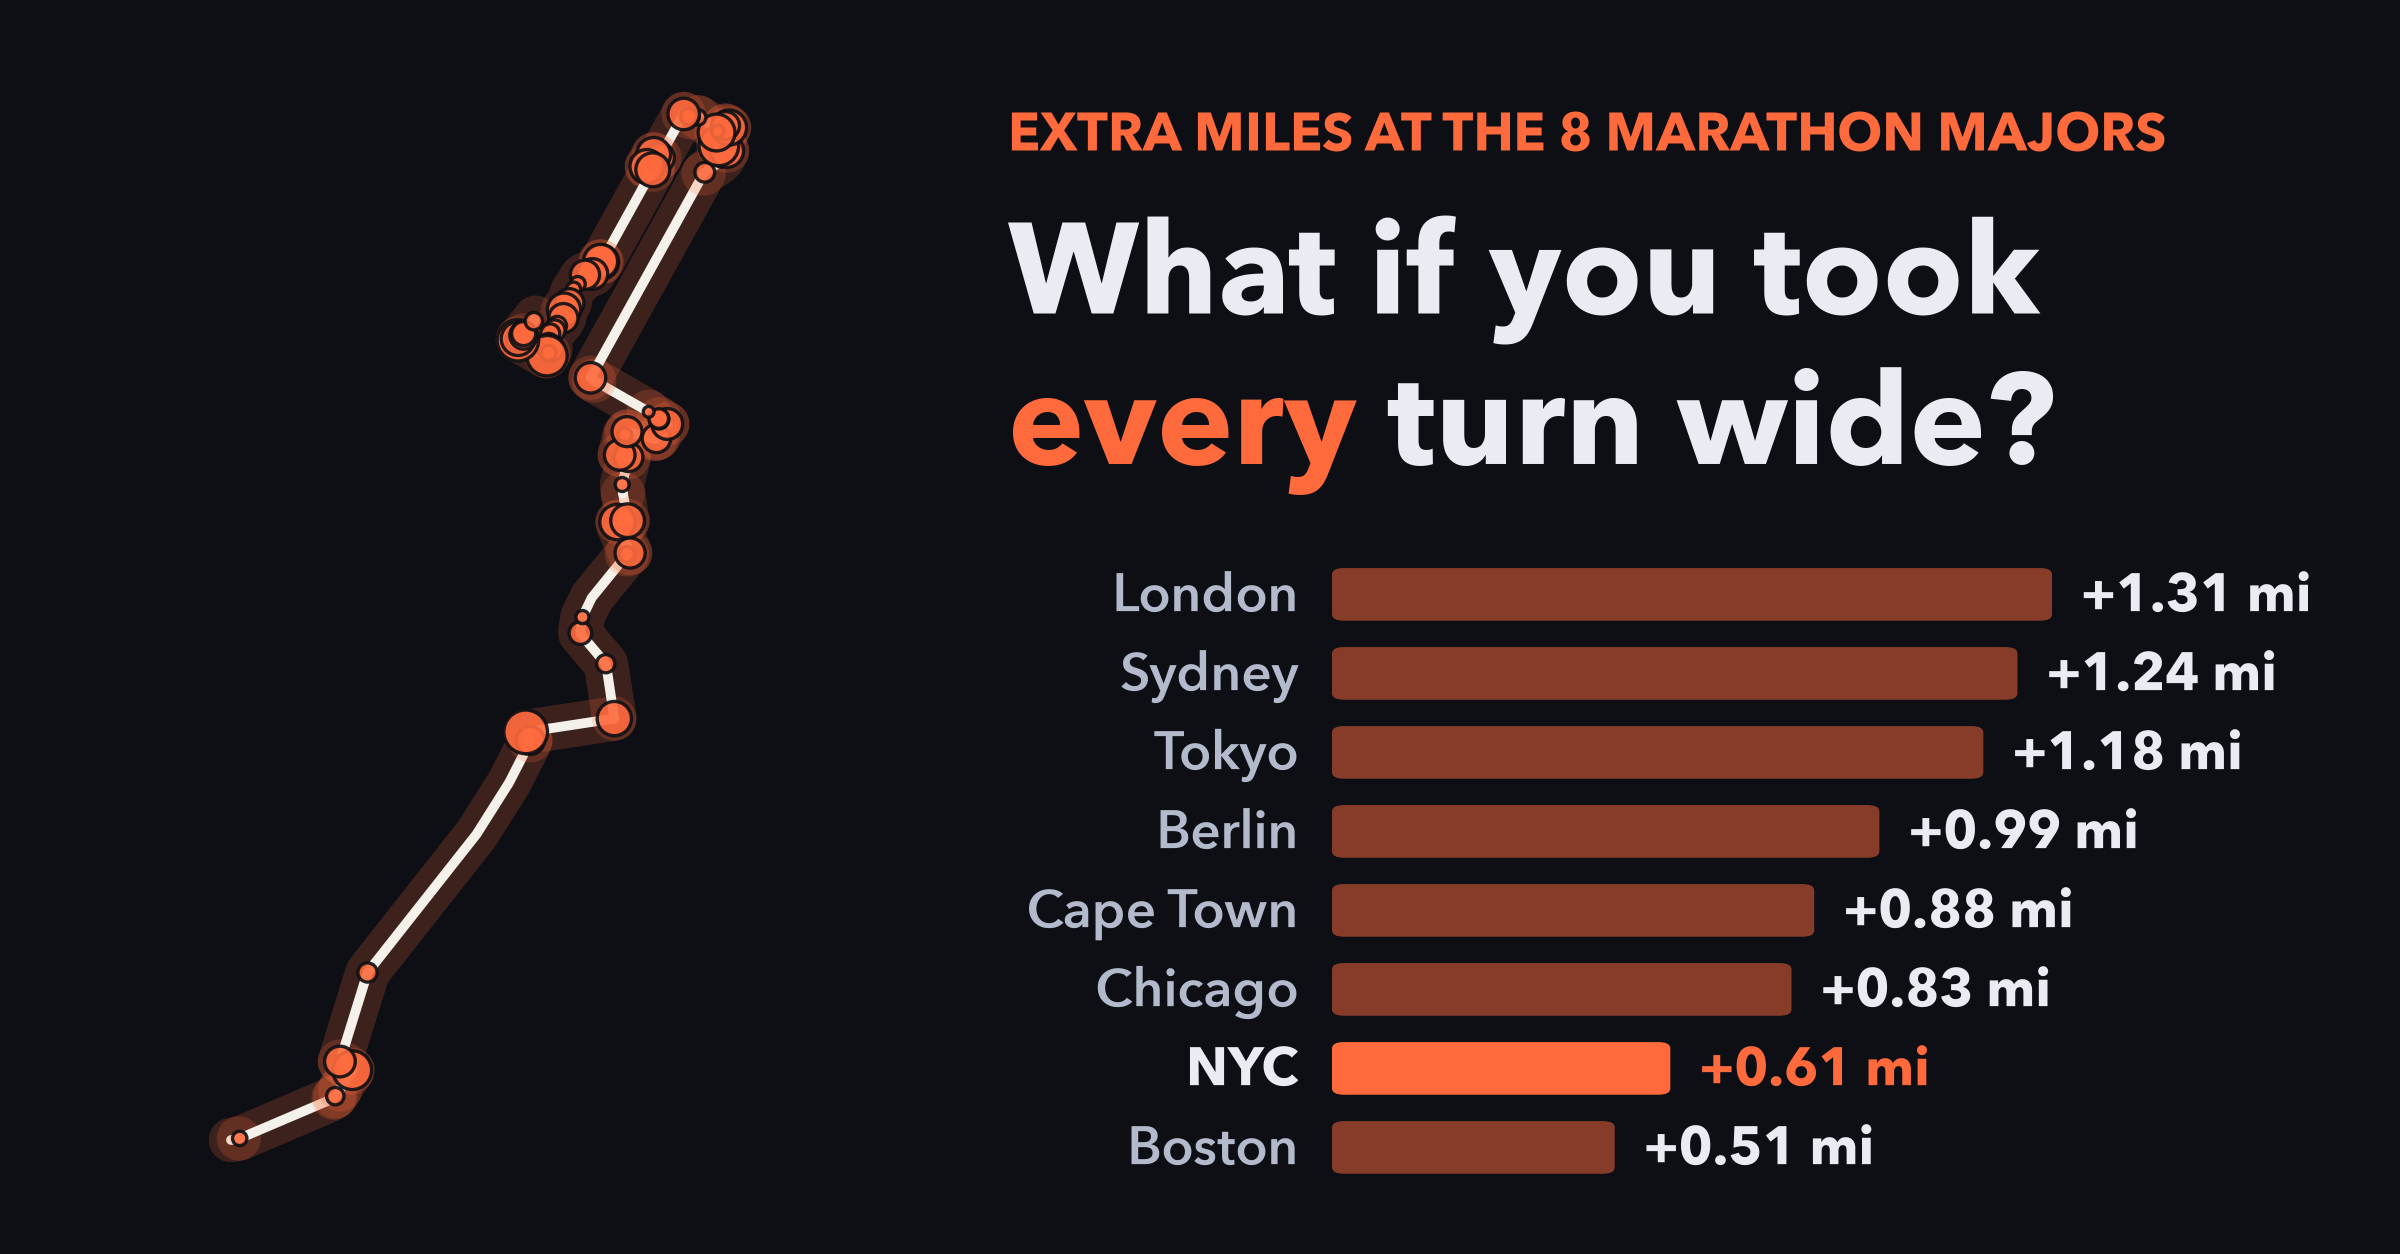
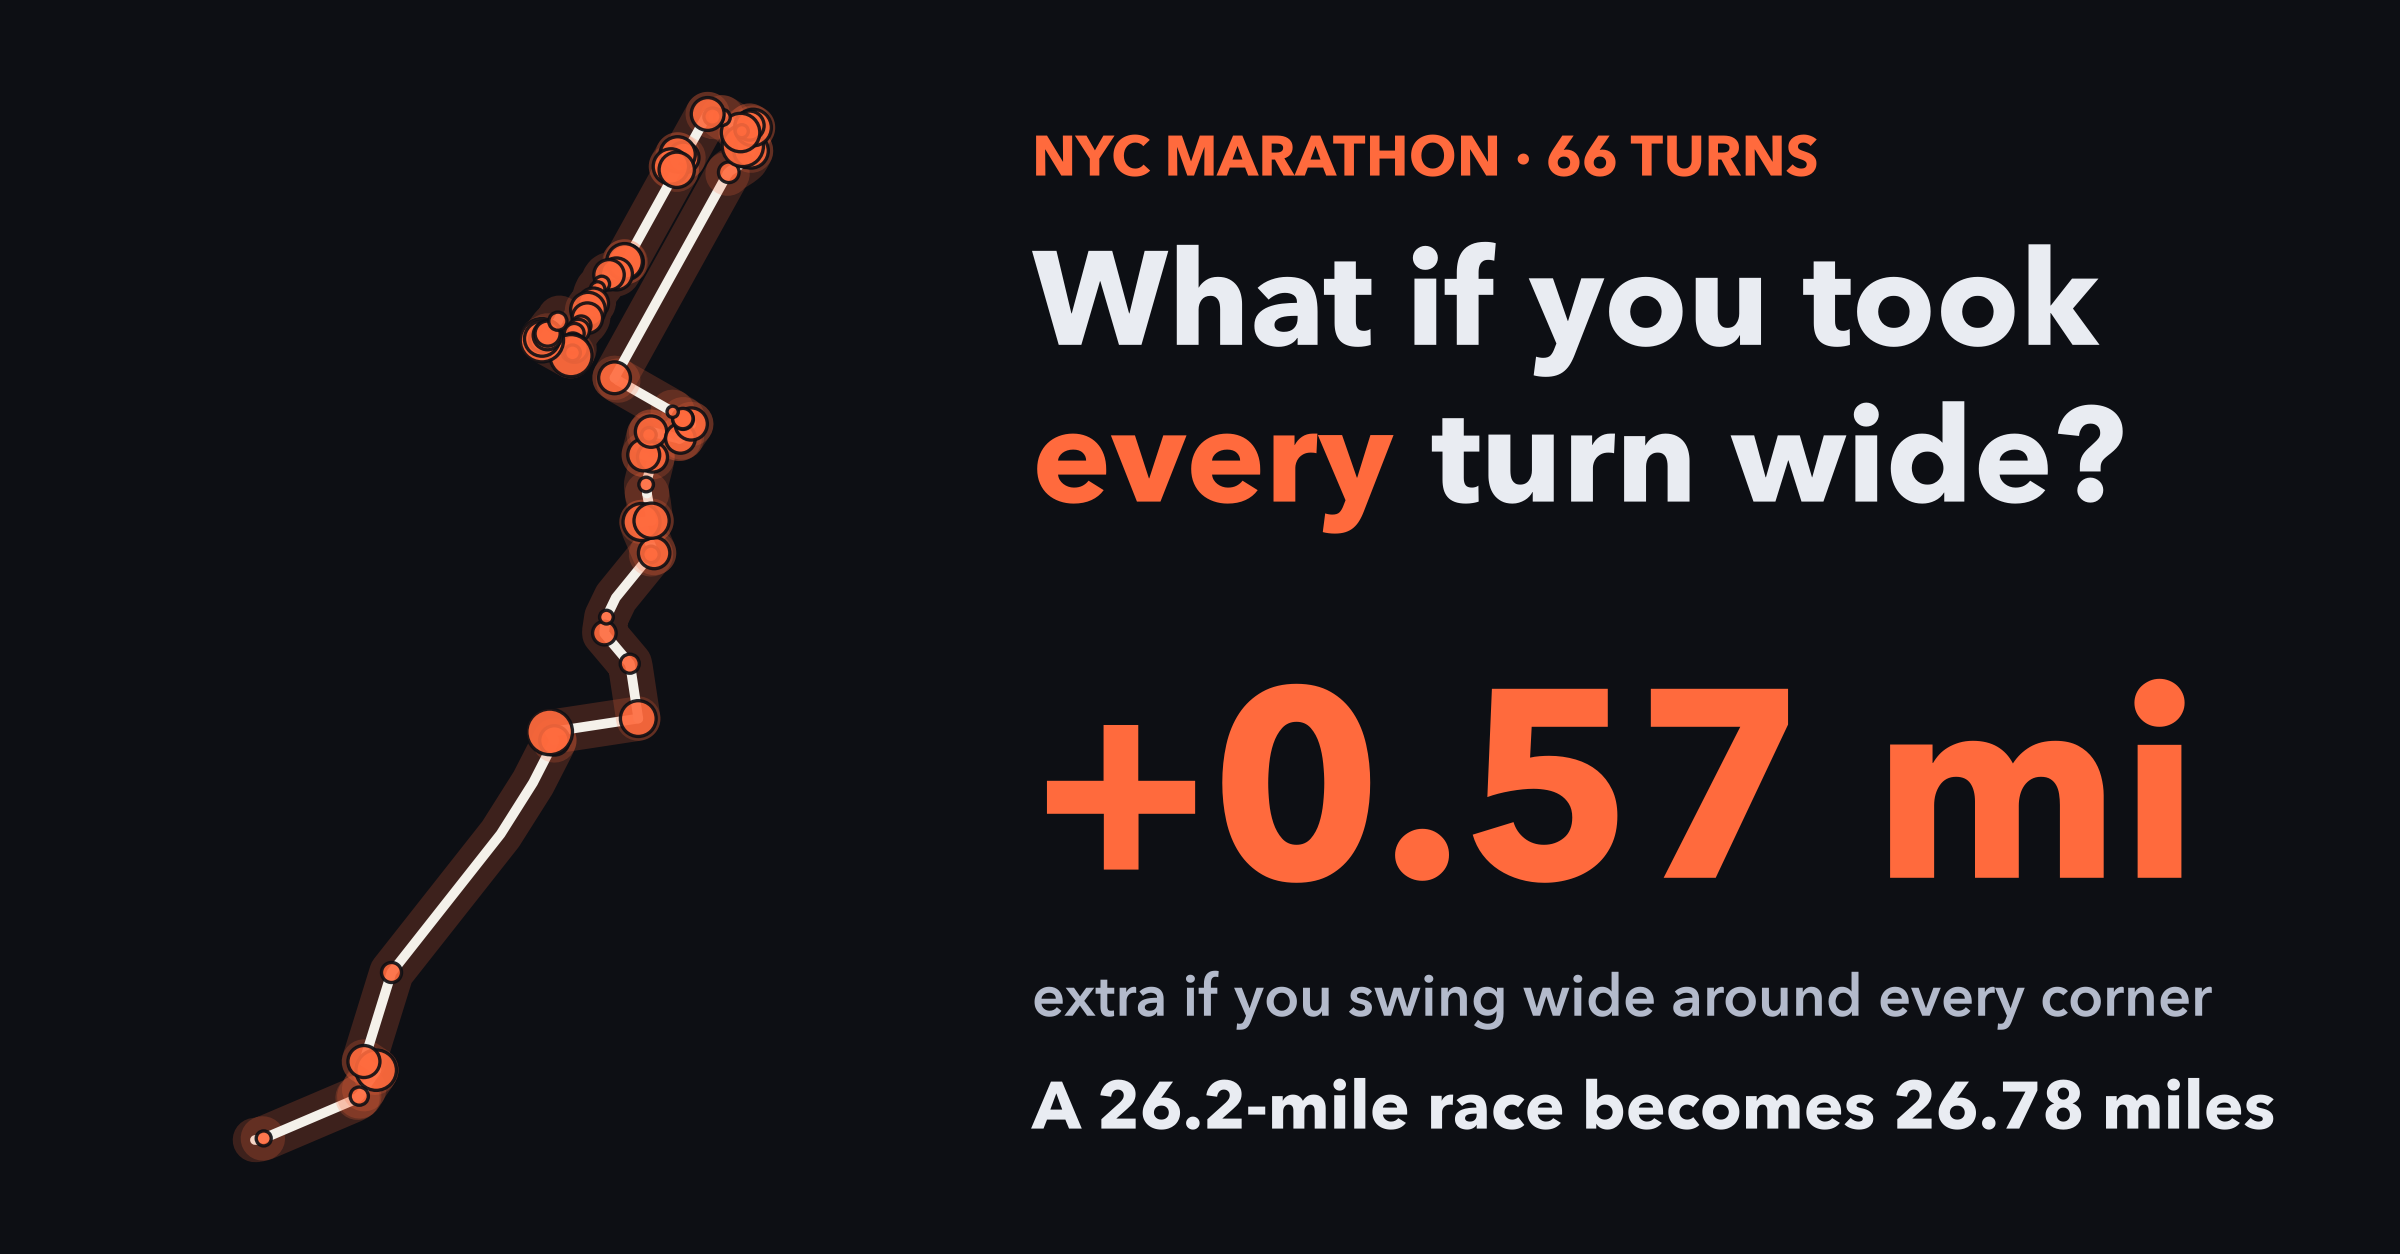
Focus the link preview on NYC: +0.57 mi, matching the NYC page
Uses the NYC page's own (LION) numbers rather than the comparison's OSM
estimate. Image URL bumped to ?v=4.

Changed region(s): [[0.4062, 0.0622, 0.9688, 0.9641], [0.0625, 0.0622, 0.3438, 0.933]]

diff --git a/web/index.html b/web/index.html
@@ -11,10 +11,10 @@
     <meta property="og:url" content="https://dkraushar.github.io/marathon-turns/" />
     <meta property="og:title" content="What if you took every turn wide?" />
     <meta property="og:description" content="How much farther you'd run swinging around the outside of every corner, at all eight World Marathon Majors. Interactive map by Dana Kraushar." />
-    <meta property="og:image" content="https://dkraushar.github.io/marathon-turns/preview.png?v=3" />
+    <meta property="og:image" content="https://dkraushar.github.io/marathon-turns/preview.png?v=4" />
     <meta property="og:image:width" content="2400" />
     <meta property="og:image:height" content="1254" />
-    <meta property="og:image:alt" content="Bar chart of extra miles from taking every turn wide at the eight World Marathon Majors, next to a map of the NYC course" />
+    <meta property="og:image:alt" content="Map of the NYC Marathon course with its 66 turns: taking every turn wide adds 0.57 miles" />
     <meta name="twitter:card" content="summary_large_image" />
     <link rel="preconnect" href="https://fonts.googleapis.com" />
     <link rel="preconnect" href="https://fonts.gstatic.com" crossorigin />

diff --git a/pipeline/preview.py b/pipeline/preview.py
@@ -1,4 +1,4 @@
-"""Draw the link-preview image (1200x627 layout, saved at 2x) (Open Graph) from the site's own data: web/public/preview.png."""
+"""Draw the link-preview image (1200x627 layout, saved at 2x): the NYC course and its headline number (Open Graph) from the site's own data: web/public/preview.png."""
 
 import json
 
@@ -14,10 +14,9 @@ DATA = ROOT / "web/public/data"
 OUT = ROOT / "web/public/preview.png"
 W, H, DPI = 1200, 627, 100
 SCALE = 2  # save at 2400x1254 so it stays sharp on high-resolution screens (same layout)
-BG, TEXT = "#0d0f14", "#e9ecf2"
+BG, TEXT, MUTED = "#0d0f14", "#e9ecf2", "#b3bacb"
 OUTER, COURSE = "#ff6a3d", "#f4f1ea"
 SANS = "Avenir Next"
-SHORT = {"nyc": "NYC", "capetown": "Cape Town"}
 
 
 def text_width(fig, t):
@@ -28,7 +27,10 @@ def text_width(fig, t):
 def main():
     course = json.loads((DATA / "nyc/course.geojson").read_text())
     turns = json.loads((DATA / "nyc/turns.geojson").read_text())
-    cities = json.loads((DATA / "cities.json").read_text())
+    # NYC's own page numbers (LION widths), so the image matches the page and the post: +0.57 mi.
+    nyc = json.loads((DATA / "nyc/summary.json").read_text())
+    extra_mi = nyc["extra_arc_ft"] / 5280
+    certified_mi = 42.195 / 1.609344
 
     fig = plt.figure(figsize=(W / DPI, H / DPI), dpi=DPI, facecolor=BG)
 
@@ -36,7 +38,7 @@ def main():
     # sized to survive that: no text under ~19 pt here (≈11 px on the card), bold weights, no fine print.
 
     # Left: the NYC course, glowing, with every turn sized by what it costs.
-    ax = fig.add_axes([0.03, 0.05, 0.34, 0.90], facecolor=BG)
+    ax = fig.add_axes([0.03, 0.05, 0.36, 0.90], facecolor=BG)
     lat0 = np.radians(40.72)
     for f in course["features"]:
         xy = np.array(f["geometry"]["coordinates"])
@@ -45,34 +47,22 @@ def main():
         ax.plot(x, y, color=COURSE, lw=3.5, solid_capstyle="round")
     pts = np.array([f["geometry"]["coordinates"] for f in turns["features"]])
     extra = np.array([f["properties"]["extra_arc_ft"] for f in turns["features"]])
-    ax.scatter(pts[:, 0] * np.cos(lat0), pts[:, 1], s=extra * 2.2, color=OUTER, alpha=0.9,
+    ax.scatter(pts[:, 0] * np.cos(lat0), pts[:, 1], s=extra * 2.4, color=OUTER, alpha=0.9,
                edgecolors=BG, linewidths=1.2, zorder=3)
     ax.set_aspect("equal")
     ax.axis("off")
 
-    # Right: headline + the eight Majors in miles.
-    x0 = 0.42
-    fig.text(x0, 0.88, "EXTRA MILES AT THE 8 MARATHON MAJORS", family=SANS, weight="bold", size=19, color=OUTER)
-    fig.text(x0, 0.75, "What if you took", family=SANS, weight="bold", size=46, color=TEXT)
-    every = fig.text(x0, 0.63, "every", family=SANS, weight="bold", size=46, color=OUTER)
-    fig.text(x0 + text_width(fig, every) + 0.014, 0.63, "turn wide?", family=SANS, weight="bold", size=46,
+    # Right: the question, then the answer.
+    x0 = 0.43
+    fig.text(x0, 0.86, f"NYC MARATHON · {nyc['n_turns']} TURNS", family=SANS, weight="bold", size=20, color=OUTER)
+    fig.text(x0, 0.725, "What if you took", family=SANS, weight="bold", size=48, color=TEXT)
+    every = fig.text(x0, 0.6, "every", family=SANS, weight="bold", size=48, color=OUTER)
+    fig.text(x0 + text_width(fig, every) + 0.014, 0.6, "turn wide?", family=SANS, weight="bold", size=48,
              color=TEXT)
-
-    rows = sorted(cities, key=lambda c: -c["extra_arc_ft"])
-    top, step, bar_h = 0.505, 0.063, 0.042
-    bar_x, bar_max = x0 + 0.135, 0.30
-    vmax = max(c["extra_arc_ft"] for c in rows)
-    for i, c in enumerate(rows):
-        y = top - i * step
-        nyc = c["slug"] == "nyc"
-        w = bar_max * c["extra_arc_ft"] / vmax
-        fig.text(bar_x - 0.014, y + bar_h / 2, SHORT.get(c["slug"], c["city"]), ha="right", va="center",
-                 family=SANS, weight="bold" if nyc else "demibold", size=19, color=TEXT if nyc else "#b3bacb")
-        fig.patches.append(matplotlib.patches.FancyBboxPatch(
-            (bar_x, y), w, bar_h, boxstyle="round,pad=0,rounding_size=0.005", transform=fig.transFigure,
-            facecolor=OUTER, alpha=1 if nyc else 0.5, edgecolor="none"))
-        fig.text(bar_x + w + 0.012, y + bar_h / 2, f"+{c['extra_arc_ft'] / 5280:.2f} mi", va="center", family=SANS,
-                 weight="bold", size=19, color=OUTER if nyc else TEXT)
+    fig.text(x0, 0.30, f"+{extra_mi:.2f} mi", family=SANS, weight="bold", size=96, color=OUTER)
+    fig.text(x0, 0.19, "extra if you swing wide around every corner", family=SANS,
+             weight="demibold", size=21, color=MUTED)
+    fig.text(x0, 0.10, f"A 26.2-mile race becomes {certified_mi + extra_mi:.2f} miles", family=SANS, weight="bold", size=24, color=TEXT)
 
     fig.savefig(OUT, dpi=DPI * SCALE, facecolor=BG)
     print(f"wrote {OUT.relative_to(ROOT)} ({OUT.stat().st_size / 1024:.0f} KB)")
